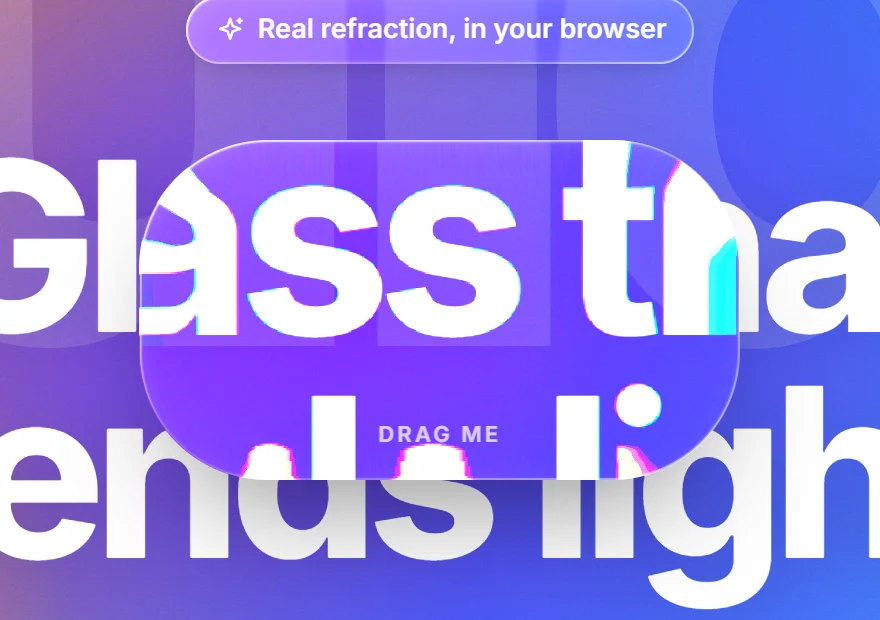
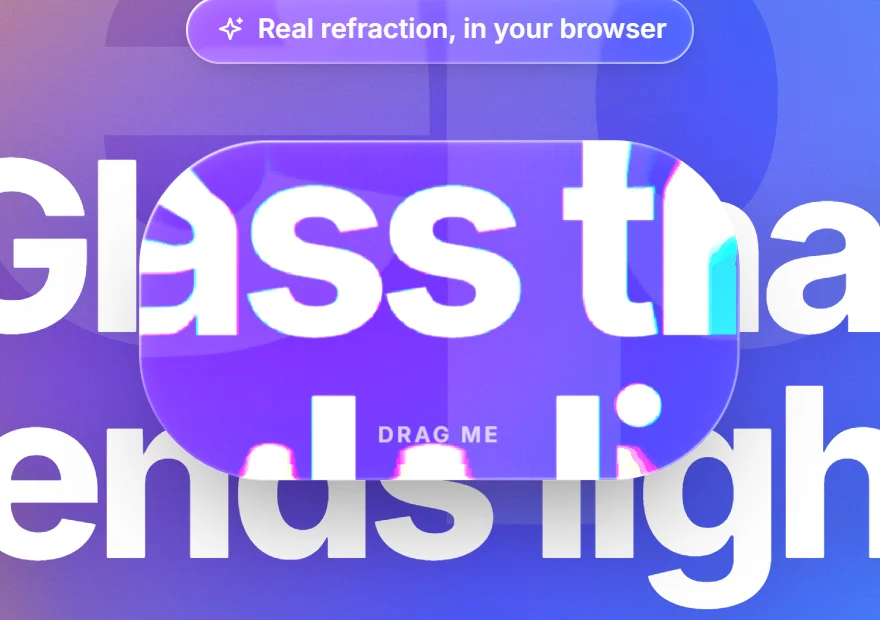
Say deep glass, nowhere liquid glass
The tagline, the demo page (its title, description, intro, and the
word drawn on the Sunset wallpaper), the package description and
keywords, and the comments shipped in the package. README images and
the social preview are regenerated with the new wallpaper.

diff --git a/demo/index.html b/demo/index.html
@@ -3,10 +3,10 @@
   <head>
     <meta charset="utf-8" />
     <meta name="viewport" content="width=device-width, initial-scale=1, viewport-fit=cover" />
-    <title>deep-glass · Liquid glass for the web</title>
+    <title>deep-glass · Deep glass for the web</title>
     <meta
       name="description"
-      content="UI components made of liquid glass: they refract, bend and light up what is behind them. Real lens refraction with color fringes, specular rims and springy touch."
+      content="UI components made of deep glass: they refract, bend and light up what is behind them. Real lens refraction with color fringes, specular rims and springy touch."
     />
     <meta name="theme-color" content="#1b1f3a" />
     <link
@@ -18,7 +18,7 @@
     <!-- what the glass bends: fixed behind the page -->
     <div class="wallpaper" aria-hidden="true">
       <div class="wp wp-sunset">
-        <span class="wp-word">liquid</span>
+        <span class="wp-word">deep</span>
         <span class="wp-word">glass</span>
       </div>
       <div class="wp wp-type">
@@ -57,7 +57,7 @@
         <p class="dg dg-chip pill" id="support"><i data-icon="sparkle"></i><span>Real refraction, in your browser</span></p>
         <h1>Glass that<br />bends light.</h1>
         <p class="lead">
-          UI components made of liquid glass. They refract what is behind them through a curved rim,
+          UI components made of deep glass. They refract what is behind them through a curved rim,
           split it into colors at the edges, catch the light where your pointer is, and stretch like a
           drop when you press them.
         </p>

diff --git a/src/controls.ts b/src/controls.ts
@@ -21,7 +21,7 @@ function boxOf(item: Element, root: HTMLElement): Box {
   return { x: r.left - o.left - root.clientLeft, y: r.top - o.top - root.clientTop, w: r.width, h: r.height };
 }
 
-/** an under-damped spring: it overshoots a little and settles, like a drop of liquid */
+/** an under-damped spring: it overshoots a little and settles, like a drop of water */
 class Spring {
   v = 0;
   constructor(
@@ -145,7 +145,7 @@ export class Droplet {
   private render() {
     const { w: bw, h: bh } = this.base;
     if (!bw || !bh) return;
-    // longer along the motion and thinner across it: the faster, the more liquid
+    // longer along the motion and thinner across it: the faster, the softer
     const vx = this.px.v + this.pw.v / 2;
     const vy = this.py.v + this.ph.v / 2;
     const stretch = Math.min(0.32, Math.hypot(vx, vy) / 2400);

diff --git a/src/deep-glass.css b/src/deep-glass.css
@@ -1,5 +1,5 @@
 /*
- * deep-glass: liquid glass for the web.
+ * deep-glass: deep glass for the web.
  *
  * `.dg` is the material. With the script, it refracts what is behind it (Chromium); without it,
  * or elsewhere, it is frosted glass with the same rim, highlights and shadows.
@@ -287,7 +287,7 @@
 
 /*
  * Etched glass inside a pane: nested backdrop filters only see their parent's content, so tiles
- * don't refract (Apple's guidance too: no glass on glass). Same rim and light, lighter tint.
+ * don't refract (no glass on glass). Same rim and light, lighter tint.
  */
 .dg-tile {
   position: relative;

diff --git a/src/index.ts b/src/index.ts
@@ -20,7 +20,7 @@ export interface DeepGlassInstance {
 }
 
 /**
- * Turns every `.dg` element into liquid glass, and brings the components to life (switches,
+ * Turns every `.dg` element into deep glass, and brings the components to life (switches,
  * sliders, segmented controls, tab bars, toolbars, menus). Elements added later are picked up.
  *
  * ```js

diff --git a/src/runtime.ts b/src/runtime.ts
@@ -250,7 +250,7 @@ const visibility = IntersectionObserverLike((entries) => {
   relight();
 });
 
-// ---------- press: squish, follow the finger like a drop of liquid, spring back ----------
+// ---------- press: squish, follow the finger like a drop of water, spring back ----------
 
 let pressed: {
   el: HTMLElement;

diff --git a/README.md b/README.md
@@ -1,6 +1,6 @@
 # deep-glass
 
-**Liquid glass for the web.** UI components that refract what is behind them through a curved rim, split it into colors at the edges, catch the light where your pointer is, and stretch like a drop when you press them.
+**Deep glass for the web.** UI components that refract what is behind them through a curved rim, split it into colors at the edges, catch the light where your pointer is, and stretch like a drop when you press them.
 
 [![npm](https://img.shields.io/npm/v/deep-glass?color=8ab4ff)](https://www.npmjs.com/package/deep-glass)
 [![gzip](https://img.shields.io/badge/gzip-8%20kB%20js%20%2B%204%20kB%20css-8ab4ff)](#size)
@@ -17,7 +17,7 @@ Not a blur. Each pane is a slab of glass: each pixel of its rim is traced throug
 - **Real refraction**, from a physical model of the rim: no mirrored copies, no seams at the corners.
 - **Color fringes** along the rim, where the glass is steepest.
 - **Light that follows you**: the rim lights up on the side facing the pointer (or with the tilt of the phone, where the browser allows it), and a soft glare follows it.
-- **Liquid touch**: buttons swell, glow where you touch them, stretch towards your finger and spring back. Selections are glass drops that slide, stretch with their speed, and turn into a magnifying lens when you grab them.
+- **Springy touch**: buttons swell, glow where you touch them, stretch towards your finger and spring back. Selections are glass drops that slide, stretch with their speed, and turn into a magnifying lens when you grab them.
 - **Everything an interface needs**: buttons, icon buttons, chips, cards, tiles, text fields, switches, sliders, segmented controls, tab bars, toolbars, menus, toasts and sheets.
 - **Plain HTML and CSS classes**: works with any framework, or none. Accessible roles, keyboard support, `prefers-reduced-motion`, `prefers-reduced-transparency` and forced colors.
 - **Graceful**: without the script, or in browsers that can't refract, it is frosted glass with the same rim, light and shadows.
@@ -149,7 +149,7 @@ lensMap(shape);                     // the displacement map itself, for your own
 
 Real refraction needs SVG filters in `backdrop-filter`, which only Chromium renders: Chrome, Edge, Opera, Brave, Arc, Samsung Internet. Safari and Firefox get frosted glass (blur and saturation) with the same rim, light, shadows and interactions. Without JavaScript, everything is styled and usable; the switches and sliders are native inputs.
 
-Glass inside glass doesn't refract the page (a browser rule for nested backdrop filters, and Apple's guidance too): that's what `dg-tile` is for inside cards. The drops of segmented controls and tab bars do bend what is under them: the labels.
+Glass inside glass doesn't refract the page (a browser rule for nested backdrop filters): that's what `dg-tile` is for inside cards. The drops of segmented controls and tab bars do bend what is under them: the labels.
 
 ## Performance
 
